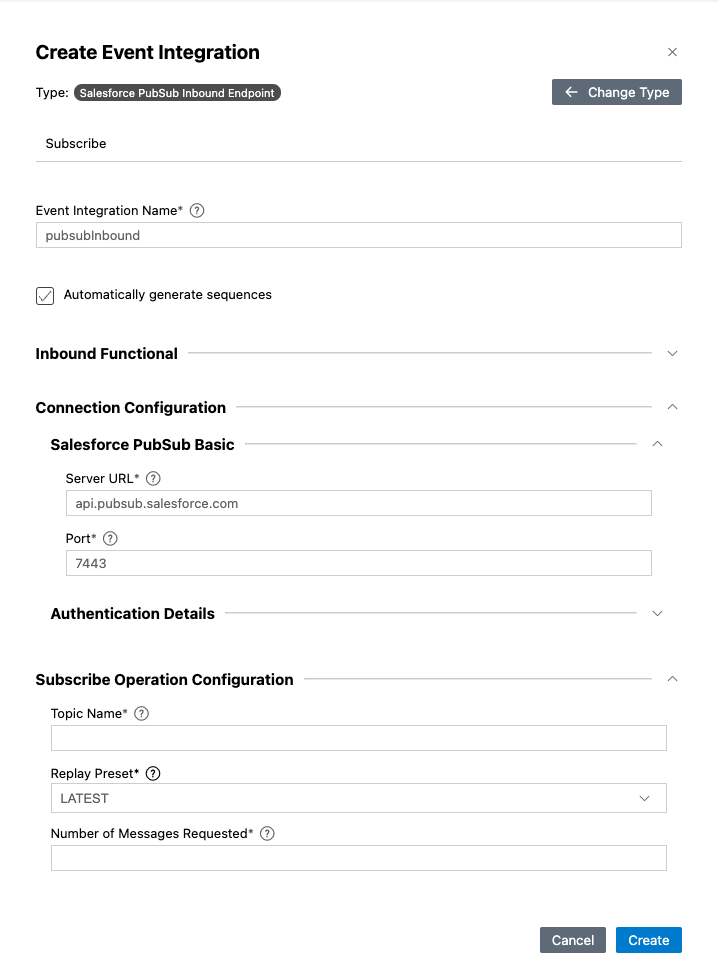
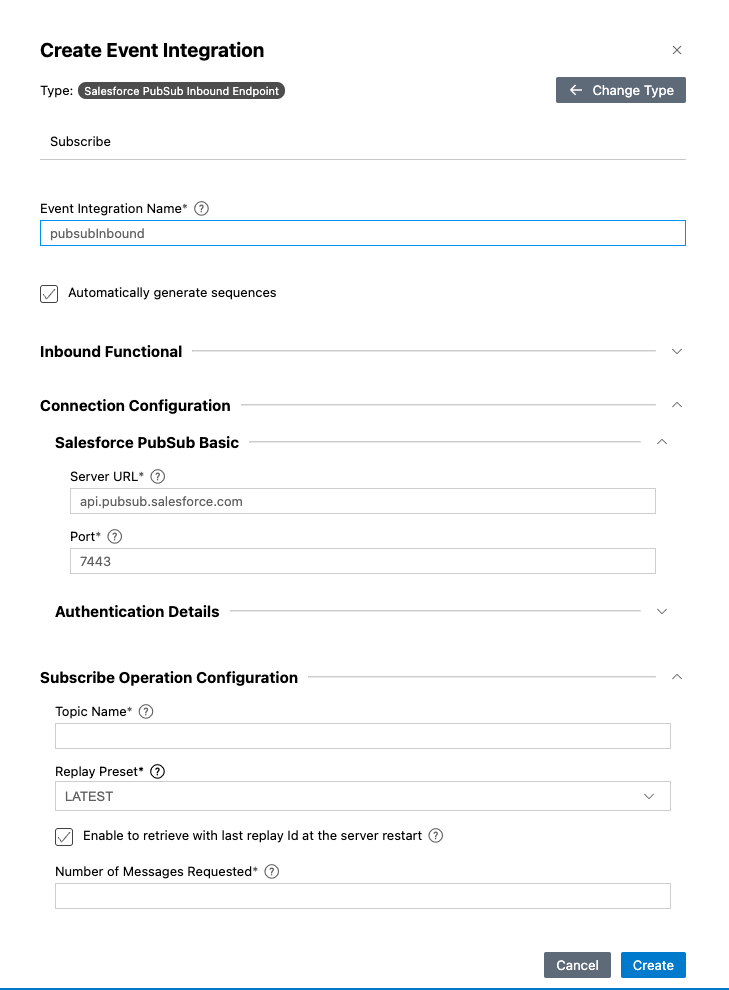
Update replay preset configuration

diff --git a/en/docs/reference/connectors/sf-pubsub-inbound/sf-pubsub-inbound-endpoint-example.md b/en/docs/reference/connectors/sf-pubsub-inbound/sf-pubsub-inbound-endpoint-example.md
@@ -8,6 +8,7 @@ The **Subscribe** RPC in Salesforce Pub/Sub API provides bidirectional streaming
 * The client initiates a subscription by sending a FetchRequest with:
     - The **topic name** to subscribe to.
     - A **replay preset** (e.g., **LATEST**, **EARLIEST**, or a **custom replay ID**).
+    - If the replay preset is **LATEST** or **EARLIEST**, the user can define the behavior for the next server restart—whether to use the last replay ID or the initial value. This can be enabled by selecting the **Enable to retrieve with last replay ID** option in the inbound endpoint configuration.
     - The **number of requests** fetches up to the given values.
 * The server responds by delivering events in one or more FetchResponse messages, up to the number of events requested.
 * All subsequent requests must use the same topic name as the initial request. A mismatch results in an INVALID_ARGUMENT error.
